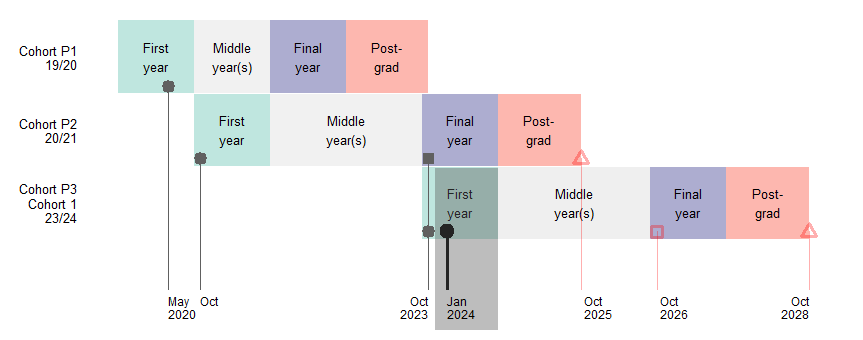
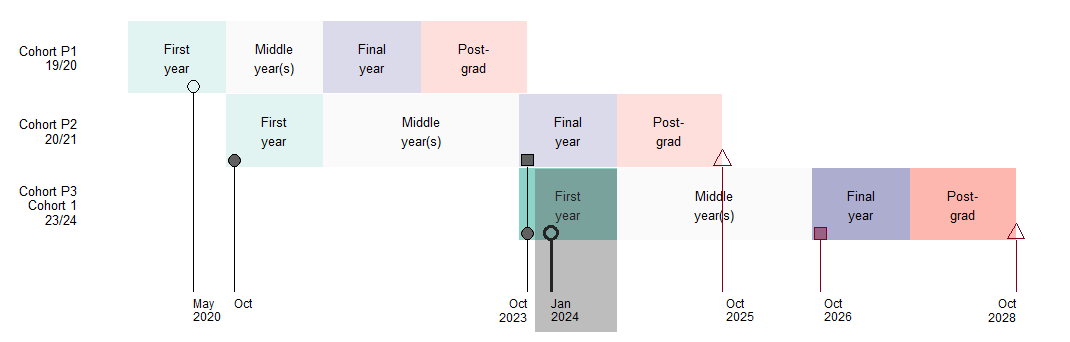
update

diff --git a/MExOutSA/timelines.html b/MExOutSA/timelines.html
@@ -7,7 +7,7 @@
 <meta name="viewport" content="width=device-width, initial-scale=1.0, user-scalable=yes">
 
 
-<title>MExOut Study Abroad</title>
+<title>MEXOUT Study Abroad</title>
 <style>
 code{white-space: pre-wrap;}
 span.smallcaps{font-variant: small-caps;}
@@ -44,8 +44,8 @@ ul.task-list li input[type="checkbox"] {
 <header id="title-block-header" class="quarto-title-block default toc-left page-columns page-full">
   <div class="quarto-title-banner page-columns page-full">
     <div class="quarto-title column-body">
-      <h1 class="title">MExOut Study Abroad</h1>
-            <p class="subtitle lead">The Motivations, Expectations and Outcomes of Study Abroad among UK undergraduates studying Japanese and Korean</p>
+      <h1 class="title">MEXOUT Study Abroad</h1>
+            <p class="subtitle lead">Motivations, Expectations, Experiences and Outcomes of Study Abroad among UK undergraduates studying Japanese and Korean</p>
                       </div>
   </div>
     
@@ -65,20 +65,29 @@ ul.task-list li input[type="checkbox"] {
    
   <ul>
   <li><a href="#project-timeline" id="toc-project-timeline" class="nav-link active" data-scroll-target="#project-timeline">Project timeline</a></li>
+  <li><a href="#subproject-naming-convention" id="toc-subproject-naming-convention" class="nav-link" data-scroll-target="#subproject-naming-convention">Subproject naming convention</a></li>
   </ul>
 </nav>
 </div>
 <div id="quarto-margin-sidebar" class="sidebar margin-sidebar">
 </div>
-<main class="content quarto-banner-title-block" id="quarto-document-content">
+<main class="content quarto-banner-title-block page-columns page-full" id="quarto-document-content">
 
 
 
 
-<section id="project-timeline" class="level2">
+<section id="project-timeline" class="level2 page-columns page-full">
 <h2 class="anchored" data-anchor-id="project-timeline">Project timeline</h2>
-<p>The <strong>MExOut Study Abroad</strong> project is envisaged as a longitudinal cross-institutional mixed-methods research project. The target population is all UK undergraduates studying on a Japanese or/and Korean language/studies course that has a compulsory study abroad year or semester as part of the degree.</p>
-<p>It aims to interview one or several cohorts of UK undergraduate students on a Japanese or Korean course at three time-points during their university and post-university careers:</p>
+<div class="column-screen-inset-right">
+<div class="quarto-figure quarto-figure-center">
+<figure class="figure">
+<p><img src="cohort_planning_legend.png" class="img-fluid figure-img"></p>
+<figcaption class="figure-caption">Fig. 1: MEXOUT data collection timeline</figcaption>
+</figure>
+</div>
+</div>
+<p>The <strong>MEXOUT Study Abroad</strong> project is envisaged as a longitudinal cross-institutional mixed-methods research project. The target population is all UK undergraduates studying on a Japanese or/and Korean language/studies course that has a compulsory study abroad year or semester as part of the degree.</p>
+<p>It aims to interview UK undergraduate students on a Japanese or Korean course at three time-points during their university and post-university careers:</p>
 <ul>
 <li>at the beginning of their <em>first year</em> of studies;</li>
 <li>in their <em>final year</em> of studies, following return from study abroad;</li>
@@ -86,14 +95,17 @@ ul.task-list li input[type="checkbox"] {
 </ul>
 <p>A Pilot phase of the project began in the 2019/2020 academic year, with an online survey distributed between March-May 2020. Unfortunately, due to the Covid-19 pandemic, study abroad travel on all 3-year degrees was put on hold and due to the general uncertainty regarding study abroad, the project was unable to collect data as planned from all the sampled institutions, and the qualitative interview data collection was also put on hold. Most of the data originated from the then home institution of the research team members, and following a transition to 4-year degrees and a better outlook on the future containment of the pandemic, a new cohort (from a single post-1992 university) was surveyed in October 2020, and qualitative interview data on a smaller selected sample of the respondents was also collected.</p>
 <p>These two cohorts make up the single-institution pilot phase of the project, and in the 2023/2024 academic year Cohort P2 students (the first post-pandemic student cohort to have taken part in study abroad in their third year of studies on a 4-year degree) also returned from study abroad, making possible the first post-SA data collection round.</p>
-<p>A funding application is made to implement the first cross-institutional first-year (pre-SA) cohort survey (1.1.1). This will enable the research team to address the body of research questions that aims to investigate the connections between social mobility and international student mobility on a nationally representative sample. The project cross-section for which funding is sought is highlighted in light grey in the chart below.</p>
+<p>A funding application is made to implement the first cross-institutional first-year (pre-SA) cohort survey (MEXOUT-SA 1.1.1). This will enable the research team to address the body of research questions that aims to investigate the connections between social mobility and international student mobility on a nationally representative sample. The project cross-section for which funding is sought is highlighted in light grey in the chart below.</p>
+<!-- ## Workplan timeline for MExtOut 1.1.1 -->
+</section>
+<section id="subproject-naming-convention" class="level2">
+<h2 class="anchored" data-anchor-id="subproject-naming-convention">Subproject naming convention</h2>
 <div class="quarto-figure quarto-figure-center">
 <figure class="figure">
-<p><img src="cohort_planning_labelled.png" class="img-fluid figure-img"></p>
-<figcaption class="figure-caption">Fig. 1: Study Cohorts</figcaption>
+<p><img src="naming_graph.png" class="img-fluid figure-img"></p>
+<figcaption class="figure-caption">Fig. 2: Project component naming convention</figcaption>
 </figure>
 </div>
-<!-- ## Workplan timeline for MExtOut 1.1.1 -->
 </section>
 
 </main>
